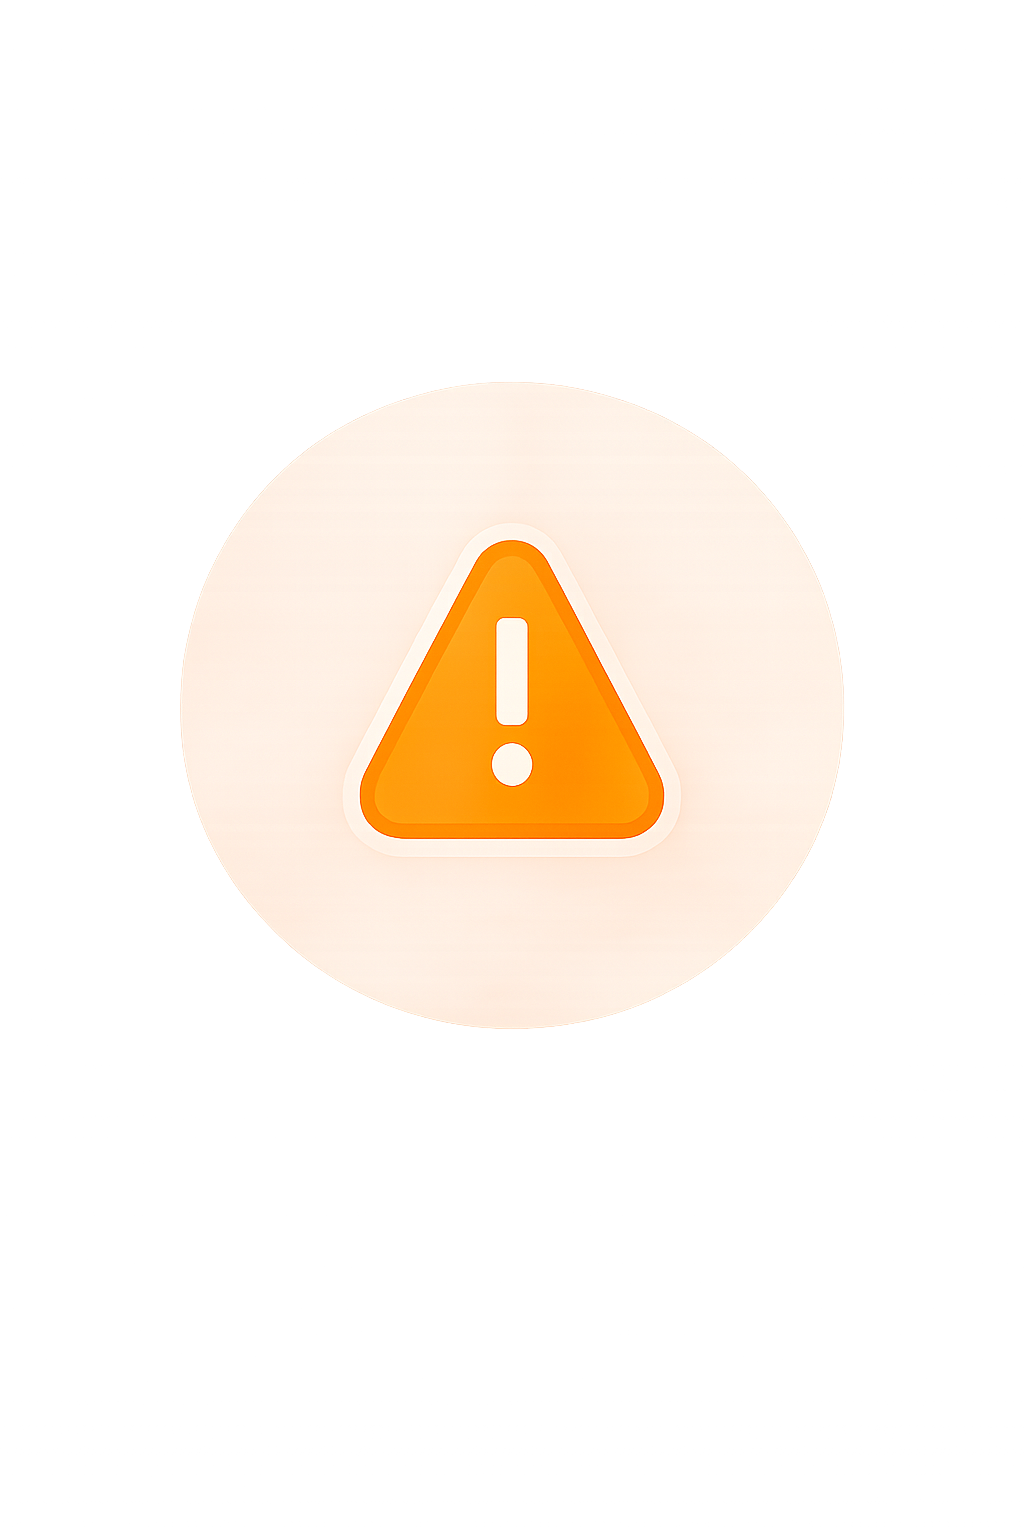
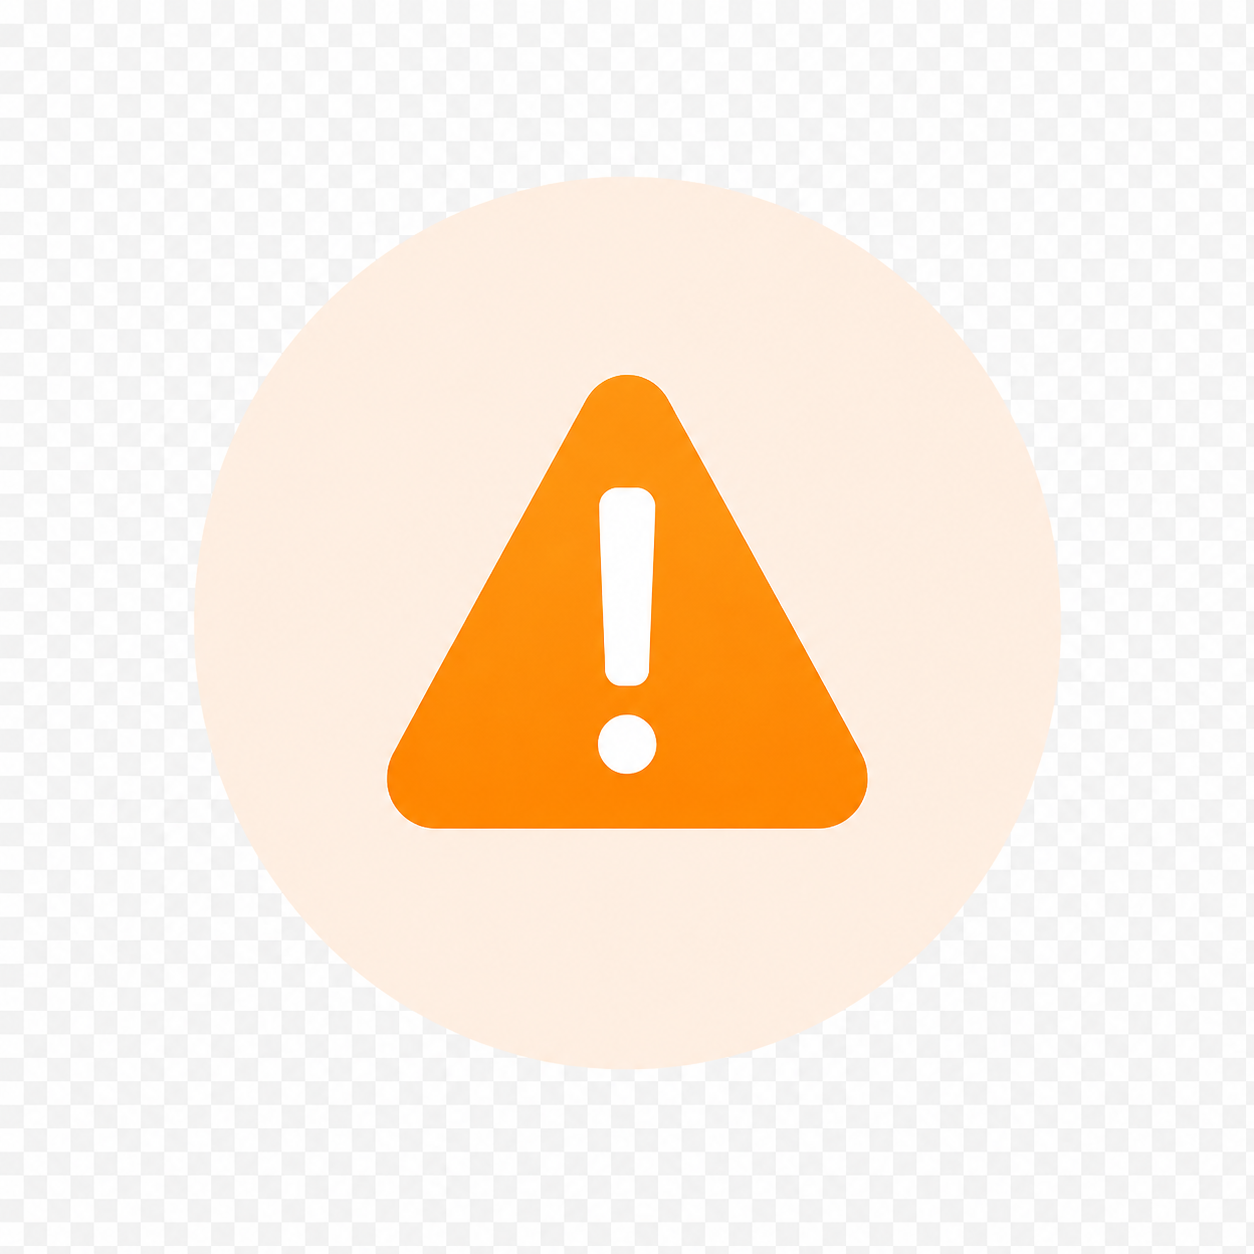
Fixed formatting issue

Changed region(s): [[0.1562, 0.1244, 0.8438, 0.8708], [0.5938, 0.4354, 0.625, 0.4665], [0.375, 0.4354, 0.4062, 0.4665]]

diff --git a/style.css b/style.css
@@ -1,3 +1,7 @@
+* {
+    box-sizing: border-box;
+}
+
 body {
     background-color: rgba(211, 211, 211, 0.115);
 }
@@ -18,12 +22,12 @@ body {
 /*Activate grid*/
 .grid-container {
     display: grid;
-    grid-template-columns: 35% 1fr;
+    grid-template-columns: minmax(280px, 32%) minmax(0, 1fr);
     grid-template-areas:
         "upload results"
         "analyze results"
         "supported results";
-    gap: 20px 40px;
+    gap: 10px;
     align-items: start;
     margin: 18px;
 }
@@ -39,7 +43,7 @@ body {
     grid-column: 1;
     grid-row: 1;
     grid-area: upload;
-    padding: 20px;
+    padding: 15px;
 }
 
 /*Customize header*/
@@ -66,7 +70,7 @@ body {
 
 /*Style label for custom button*/
 .custom-file-upload {
-    display: inline-block;
+    display: block;
     padding: 10px 20px;
     background-color: rgba(211, 211, 211, 0.32); 
     border-radius: 5px;
@@ -75,9 +79,9 @@ body {
     cursor: pointer;
     box-shadow: 0 2px 5px rgba(0,0,0,0.2);
     transition: background-color 0.2s ease;
-    margin-left: 88px;
     height: 40%;
-    width: 40%;
+    width: 70%;
+    margin: 15px auto;
 }
 
 .custom-file-upload p {
@@ -107,6 +111,8 @@ body {
     grid-row: 2; 
     grid-area: analyze; 
     padding: 16px;
+    position: relative;
+    top: -90px;
 }
 
 /*Customize header*/
@@ -126,15 +132,15 @@ body {
 
 /*Customize button*/
 .analyze-file button {
-    display: flex;
+    display: block;
     justify-content: flex-start;
-    margin-left: 90px;
     background-color: rgba(211, 211, 211, 0.32);
     border-color: rgba(211, 211, 211, 0.32);
     border-radius: 5px;
     height: 15%;
-    width: 10%;
-    padding: 5px 100px;
+    width: 70%;
+    margin: 15px auto;
+    padding: 10px;
 }
 
 /*Customize text on button*/
@@ -164,6 +170,8 @@ body {
     grid-row: 3;
     grid-area: supported;
     padding: 16px;
+    position: relative;
+    top:-180px;
 }
 /*Customize header*/
 .supported-format h3 {
@@ -191,6 +199,8 @@ body {
     grid-area: results;
     background-color: white;
     border-radius: 6px;
+    min-width:0;
+    overflow:hidden;
 }
 
 /*Customize header*/
@@ -213,90 +223,89 @@ body {
 /*Customize background*/
 .stats-container {
     display: grid;
-    grid-template-columns: repeat(4, 1fr);
+    grid-template-columns: repeat(4, minmax(0,1fr));
     gap: 10px;
-    margin-top: 20px;
-    margin-left: 15px;
+    margin: 20px 15px 0;
 }
 
 /*Customize background*/
 .stat-card {
     display: flex;
-    align-items: center;
-    width: auto;
-    justify-content: flex-start;
-    gap: 12px;
+    grid-template-columns: 42px 1fr;
+    align-items: flex-start;
+    gap: 15px;
+    column-gap: 10px;
+    height: 100px;
     background-color: white;
     border: 1px solid #dddddd;
     border-radius: 8px;
-    padding: 16px;
+    padding: 10px 14px;
     box-shadow: 0 2px 6px rgba(0,0,0,0.06);
 }
 
-.stat-content h2 {
+.stat-content,
+.stat-content-2,
+.stat-content-3,
+.stat-content-4 {
+    display: flex;
+    flex-direction: column;
+    justify-content: center;
+    align-items: flex-start;
     font-family: Arial, Helvetica, sans-serif;
+    font-size: 15px;
     margin: 0;
+}
+
+.stat-content h2 {
     color: red;
-    font-size: 30px;
-    margin-left: -10px;
+    margin: 0;
 }
 
 .stat-content-2 h2 {
-    font-family: Arial, Helvetica, sans-serif;
-    margin: 0;
     color: orange;
-    font-size: 30px;
-    margin-left: -10px;
+    margin: 0;
 }
 
 .stat-content-3 h2 {
-    font-family: Arial, Helvetica, sans-serif;
-    margin: 0;
     color: green;
-    font-size: 30px;
-    margin-left: -10px;
     position: relative;
-    top: -5px;
+    top: -1px;
+    margin: 0;
+    margin-left: 35px;
 }
 
 .stat-content-4 h2 {
-    font-family: Arial, Helvetica, sans-serif;
     margin: 0;
     color: rgba(64, 0, 128, 0.841);
-    font-size: 30px;
-    margin-left: -10px;
     position: relative;
+    margin-left: 35px;
 }
 .stat-content h4 {
     font-family: Arial, Helvetica, sans-serif;
-    font-size: 13;
-    margin: 3;
+    font-size: 13px;
+    margin: 3px;
     margin-left: -10px;
-    white-space: nowrap;
 }
 
 .stat-content-2 h4 {
     font-family: Arial, Helvetica, sans-serif;
-    font-size: 13;
-    margin: 3;
+    font-size: 13px;
+    margin: 3px;
     margin-left: -10px;
-    white-space: nowrap;
 }
 
 .stat-content-3 h4 {
     font-family: Arial, Helvetica, sans-serif;
-    font-size: 13;
-    margin: 3;
+    font-size: 13px;
+    margin: 3px;
     margin-left: -10px;
-    white-space: nowrap;
 }
 
 .stat-content-4 h4 {
     font-family: Arial, Helvetica, sans-serif;
-    font-size: 13;
-    margin: 3;
+    font-size: 13px;
+    margin: 3px;
     margin-left: -10px;
-    white-space: nowrap;
 }
 
 .stat-content p {
@@ -328,11 +337,36 @@ body {
 }
 /*Customize stat icon*/
 .stat-icon {
-    width: 50px;
-    margin-left: 0;
-    margin-top: 94px;
+    width: 40px;
+    height: 40px;
+    object-fit: contain;
+    flex-shrink:0;
+    margin-left: -8px;
+
 }
 
+.lock-icon {
+    width: 80px;
+    height: 80px;
+}
+
+.warning-icon {
+    width: 80px;
+    height: 80px;
+    margin-bottom: 10px;
+}
+
+.normal-icon {
+    width: 45px;
+    height: 45px;
+    margin-top: 12px;
+}
+
+.file-icon {
+    width: 48px;
+    height: 48px;
+    margin-top: 10px;
+}
 /******Customize Analysis Status******/
 
 /*Customize background*/
@@ -372,8 +406,8 @@ body {
 
 .analysis-details {
     display: grid;
-    grid-template-columns: 1fr 1fr;
-    gap: 20px;
+    grid-template-columns: minmax(0, 1fr) minmax(0, 1fr);
+    gap: 15px;
     margin: 20px 15px;
 }
 
@@ -471,6 +505,8 @@ chart-placeholder {
 }
 
 .chart-container {
-    width:300px;
-    height:300px;
+    width: 100%;
+    max-width: 300px;
+    height: 260px;
+    margin: 0 auto;
 }

diff --git a/index.html b/index.html
@@ -53,7 +53,7 @@
             <!--Where stats will be displayed-->
             <div class="stats-container">
                 <div class="stat-card">
-                    <img src="images/lock.png" alt="lock-icon" class="stat-icon"/>
+                    <img src="images/lock.png" alt="lock-icon" class="stat-icon lock-icon"/>
 
                     <div class="stat-content">
                         <h2 id="failedLoginCount">0</h2>
@@ -63,7 +63,7 @@
                 </div>
 
                 <div class="stat-card">
-                    <img src="images/warning.png" alt="warning-icon" class="stat-icon"/>
+                    <img src="images/warning.png" alt="warning-icon" class="stat-icon warning-icon"/>
 
                     <div class="stat-content-2">
                         <h2 id="errorCount">0</h2>
@@ -73,7 +73,7 @@
                 </div>
 
                 <div class="stat-card">
-                    <img src="images/normal.png" alt="normal-icon" class="stat-icon"/>
+                    <img src="images/normal.png" alt="normal-icon" class="stat-icon normal-icon"/>
 
                     <div class="stat-content-3">
                         <h2 id="successfulLoginCount">0</h2>
@@ -83,7 +83,7 @@
                 </div>
 
                 <div class="stat-card">
-                    <img src="images/file.png" alt="file-icon" class="stat-icon"/>
+                    <img src="images/file.png" alt="file-icon" class="stat-icon file-icon"/>
                     
                     <div class="stat-content-4">
                         <h2 id="fileChangeCount">0</h2>
@@ -107,7 +107,7 @@
                     <div class = "chart-container">
                         <canvas id="eventChart"></canvas>
                     </div>
-                    
+
                 </div>
                 <div class="analysis-details">
                     <div class="event-breakdown">
